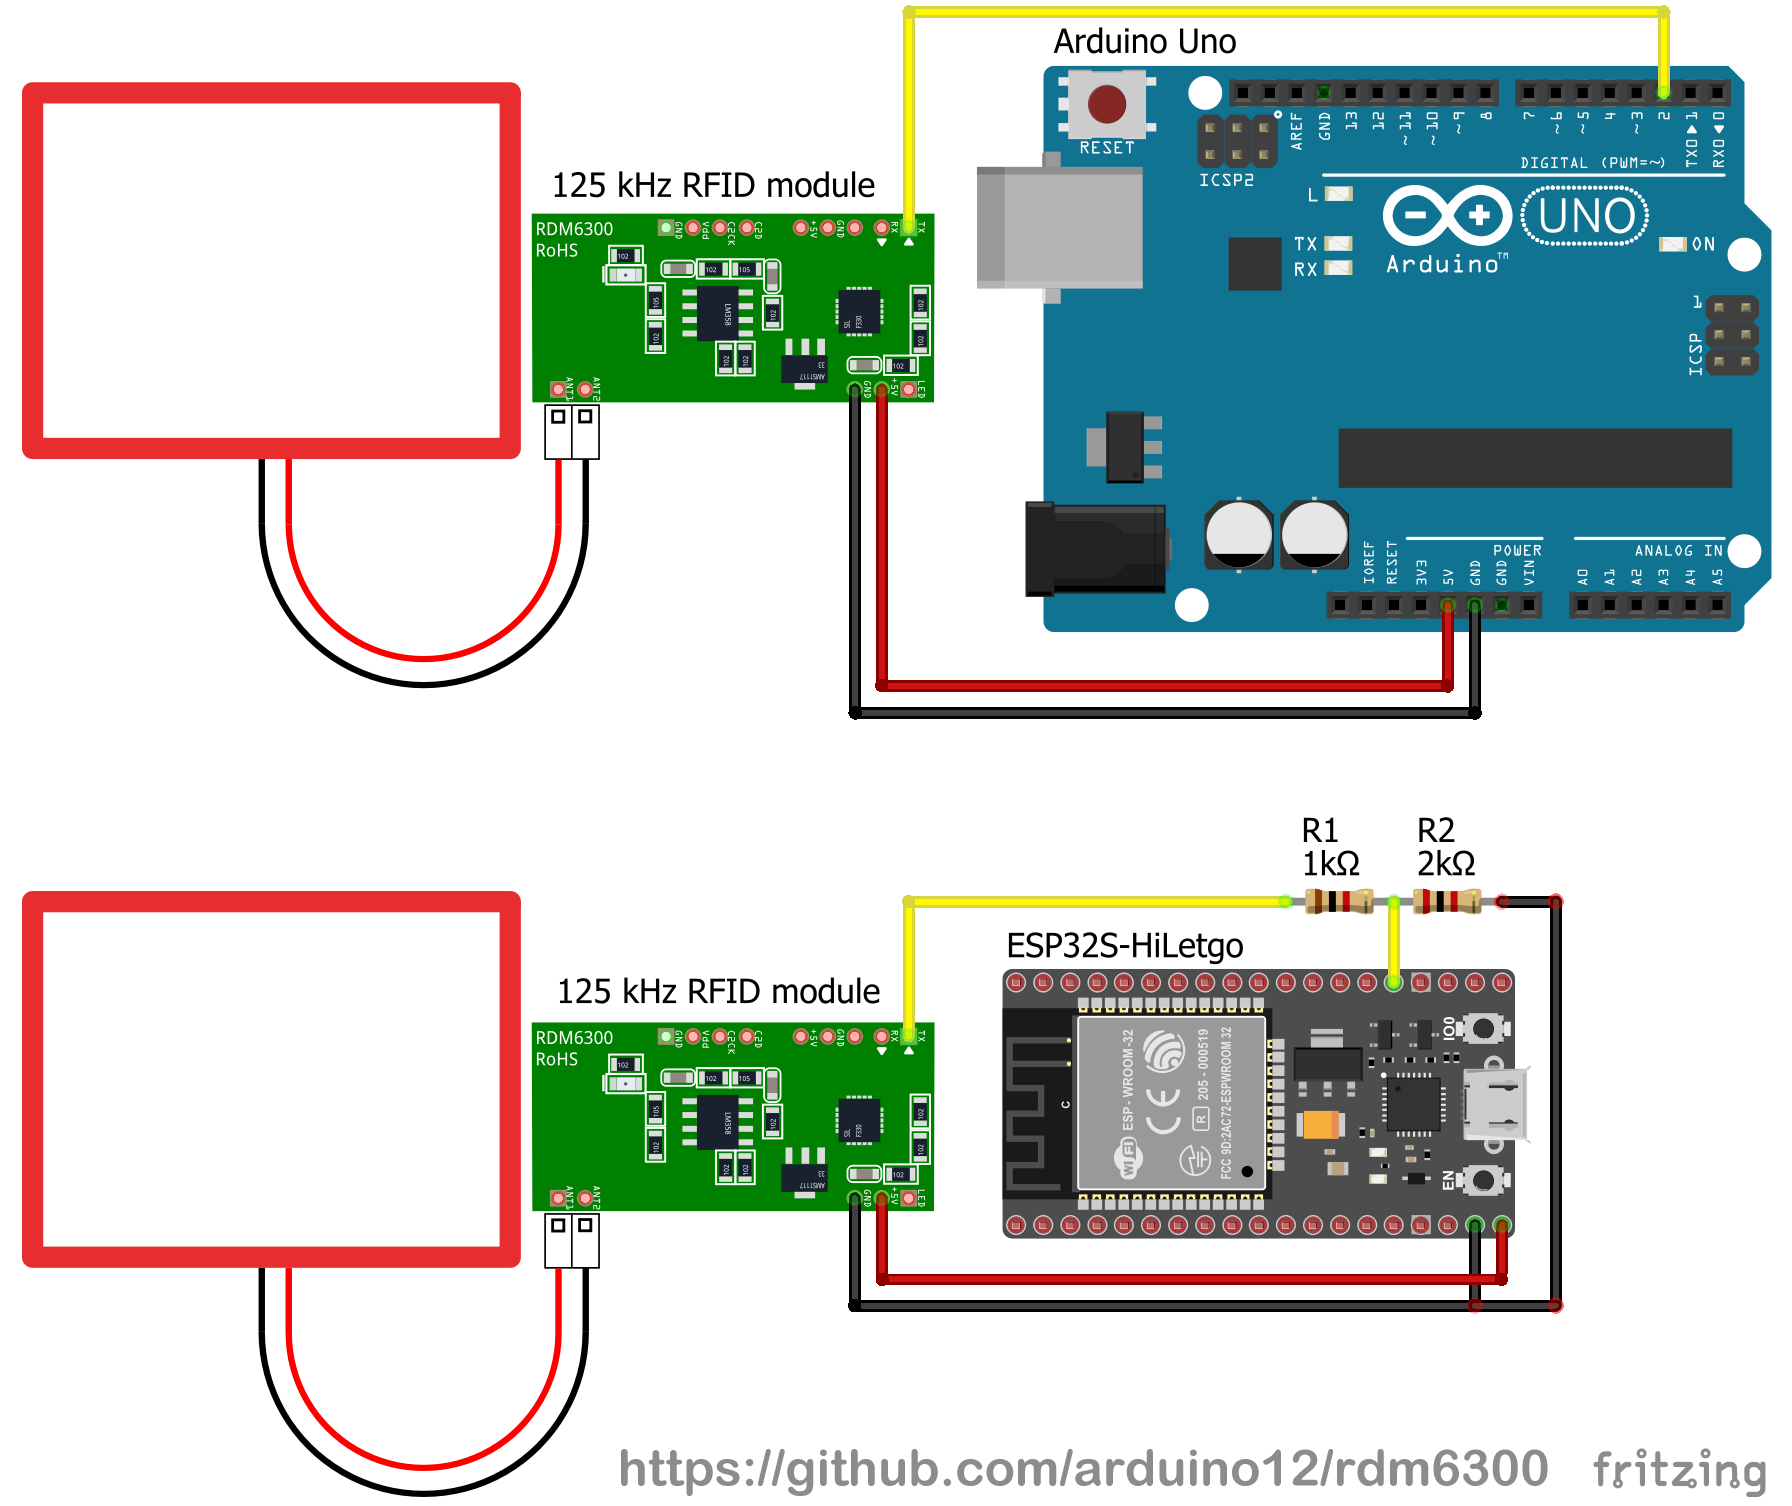
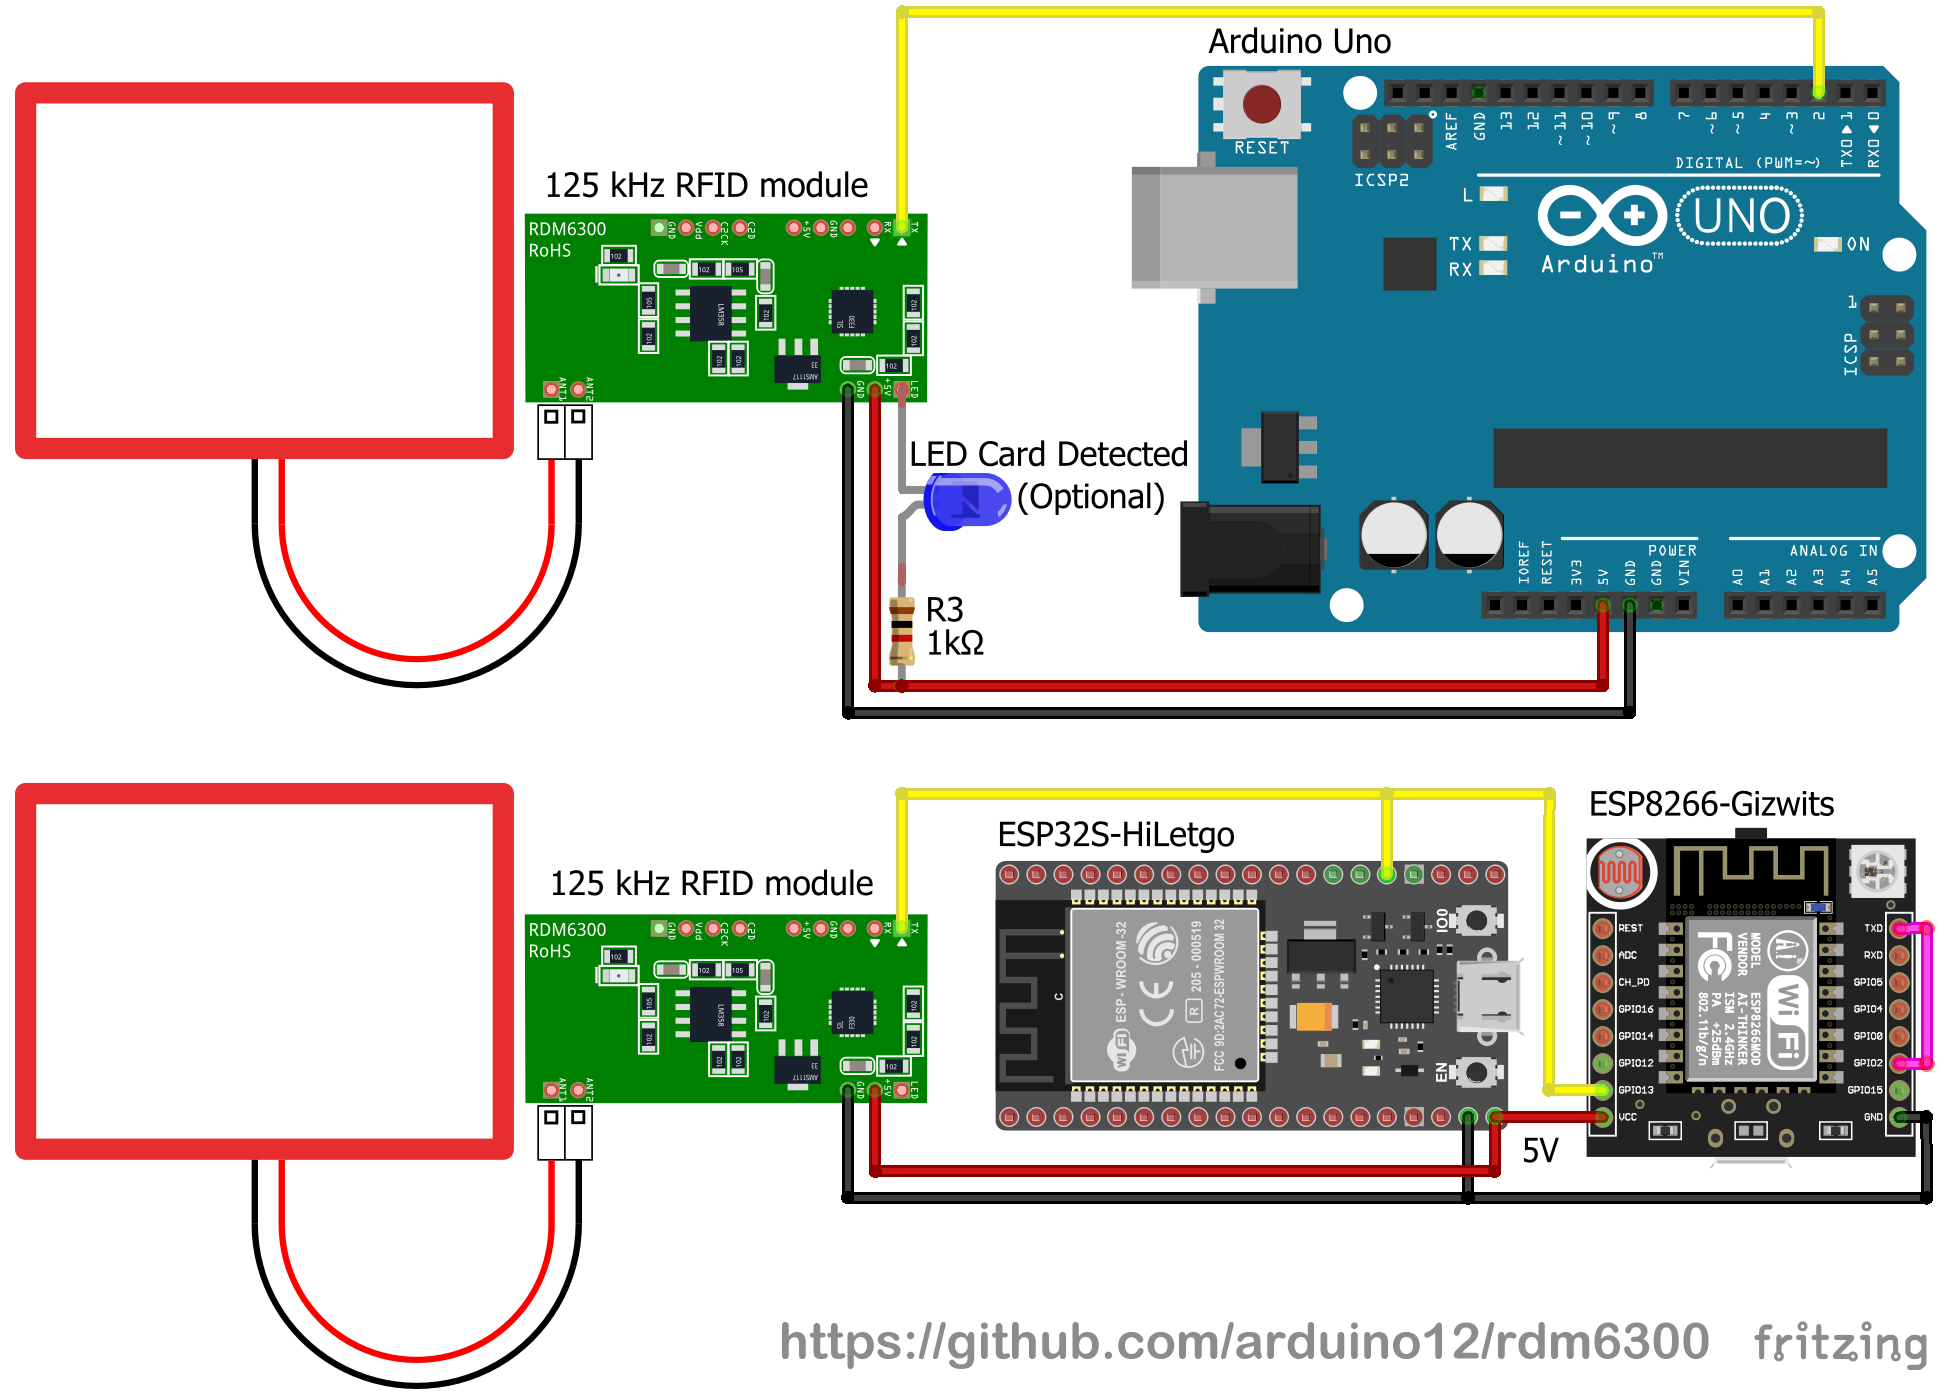
Remove resistor divider from examples and connections

diff --git a/README.md b/README.md
@@ -13,7 +13,6 @@ A simple library to interface with RDM6300 RFID reader.
 * RDM6300 module with matching antenna.
 * 125KHz RFID tags.
 * Microcontroller (arduino, esp8266, esp32...).
-* Jump-Wires (Resistors of 1K and 2K if you are using 3.3V based microcontroller).
 
 ![rdm6300_connections](../master/doc/rdm6300_connections.png "rdm6300_connections")
 
@@ -26,5 +25,5 @@ A simple RFID to serial reciver example can be found at:
 * ```bool update()``` - Updates the internal values by reading from the RDM6300, returns true on tag detection, must be called repeatedly!
 * ```uint32_t get_tag_id()``` - Returns the last tag id read by ```update```- can be called only once after ```update```.
 * ```bool is_tag_near()``` -  Returns whether a tag is currently held near the antenna- can be called many times after ```update```.
-## enjoy!
+## Enjoy!
 A.E.TECH
